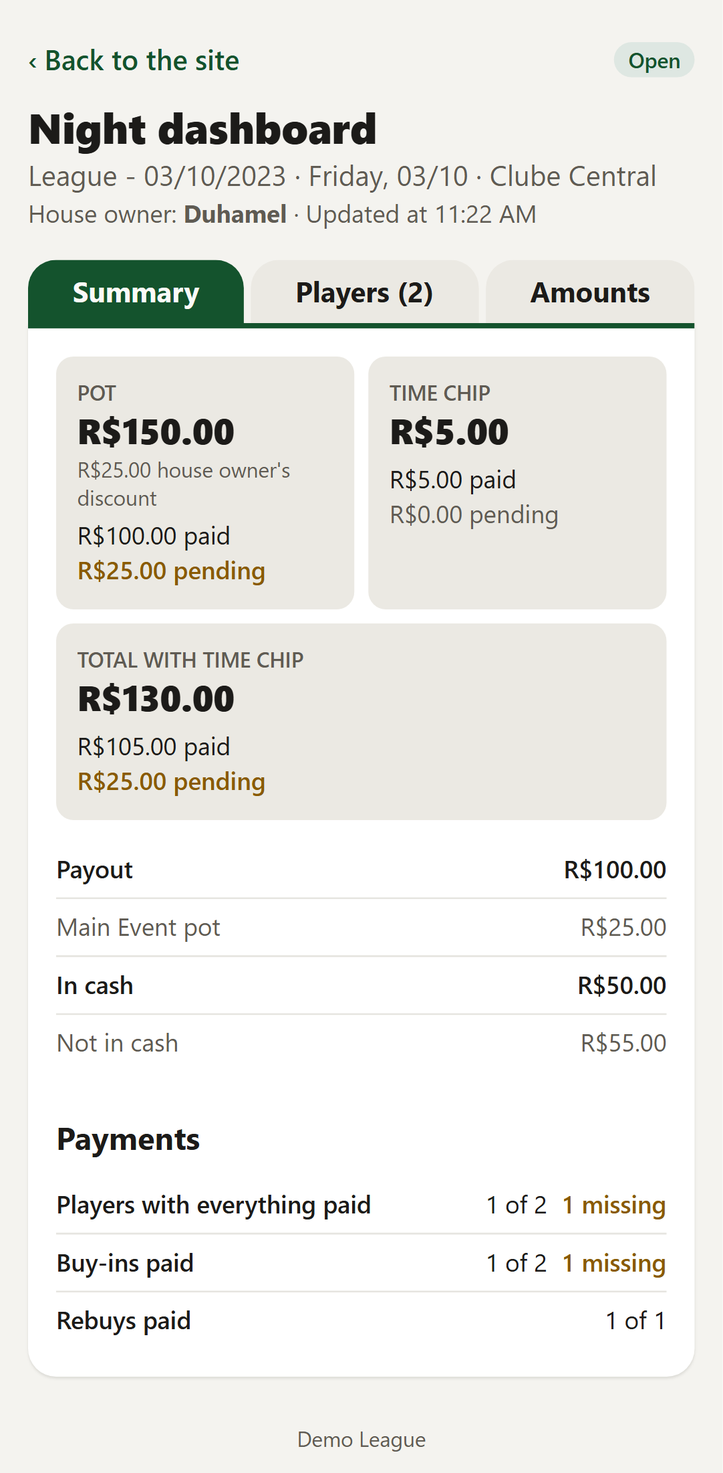
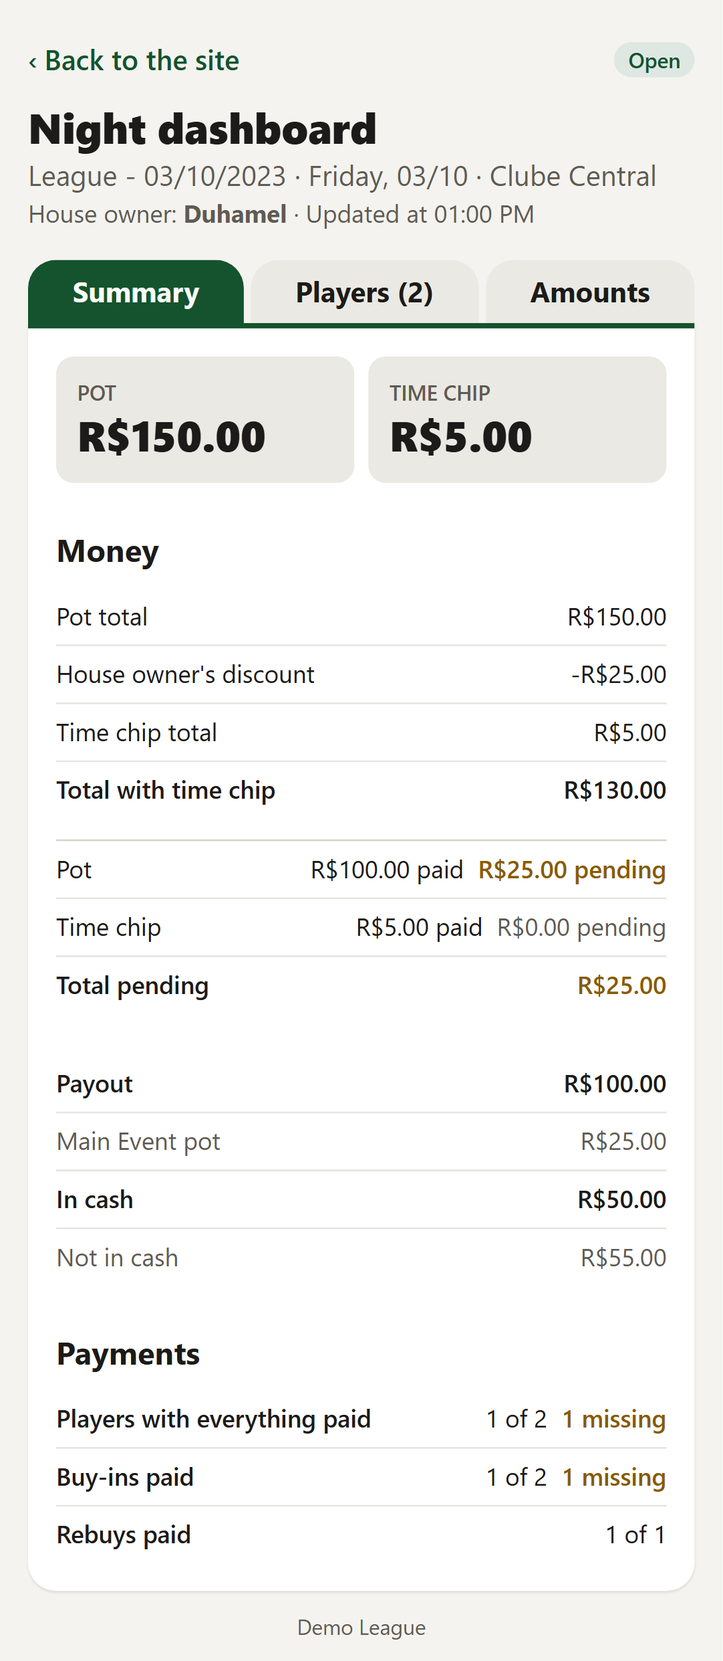
Split the money out of the dashboard summary's tiles
The summary now shows two tiles, the pot and the time chip, one amount
each. A "Dinheiro" section below adds the money up (pot, house owner's
discount, time chip, total), then shows paid and pending of the pot and
the time chip, and the total pending. The payout follows in a section
of its own.

Claude-Session: https://claude.ai/code/session_019eCHvjApLfup8M1aYvA3m7

diff --git a/frontend/tests/night-dashboard.spec.ts b/frontend/tests/night-dashboard.spec.ts
@@ -3,6 +3,8 @@ import { expectAccessible, login, logout, pickSeason } from './helpers'
 
 // On the summary tab, which is read here also while another tab is on show.
 const totals = (page: Page) => page.getByRole('region', { name: 'Valores do evento', includeHidden: true })
+const money = (page: Page) => page.getByRole('region', { name: 'Dinheiro', includeHidden: true })
+const payout = (page: Page) => page.getByRole('region', { name: 'Premiação', includeHidden: true })
 const marksOf = (page: Page, nickname: string) => page.getByRole('group', { name: `Pagamentos de ${nickname}` })
 // The dashboard's tabs: "Resumo", "Jogadores (n)" and "Valores". Only the one on show can be tapped.
 const openTab = (page: Page, name: string | RegExp) => page.getByRole('tab', { name }).click()
@@ -48,25 +50,29 @@ test('players record the payments of an open night on its dashboard, and the kee
   await expect(marksOf(page, 'Jacobson').getByRole('button', { name: 'Buy-in' })).toHaveAttribute('aria-pressed', 'true')
   // The tap confirmed him: his row says when
   await expect(page.getByRole('listitem').filter({ hasText: 'Jacobson' })).toContainText(/Confirmou \d{2}\/\d{2} às \d{2}:\d{2}/)
-  await expect(totals(page)).toContainText('PoteR$ 50,00Pago R$ 50,00')
+  await expect(money(page)).toContainText('PotePago R$ 50,00Falta R$ 0,00')
 
   // A rebuy is owed until it is marked as paid, and adds its time chip, which is shown apart from the pot
   await marksOf(page, 'Jacobson').getByRole('button', { name: '+ Rebuy' }).click()
-  await expect(totals(page)).toContainText('PoteR$ 100,00Pago R$ 50,00Falta R$ 50,00')
-  await expect(totals(page)).toContainText('Time chipR$ 5,00Pago R$ 0,00Falta R$ 5,00')
+  await expect(totals(page)).toContainText('PoteR$ 100,00')
+  await expect(totals(page)).toContainText('Time chipR$ 5,00')
+  await expect(money(page)).toContainText('PotePago R$ 50,00Falta R$ 50,00')
+  await expect(money(page)).toContainText('Time chipPago R$ 0,00Falta R$ 5,00')
   await marksOf(page, 'Jacobson').getByRole('button', { name: 'Rebuy 1' }).click()
-  await expect(totals(page)).toContainText('Total com time chipR$ 105,00Pago R$ 105,00Falta R$ 0,00')
+  await expect(money(page)).toContainText('Total com time chipR$ 105,00')
+  await expect(money(page)).toContainText('Total que faltaR$ 0,00')
   await expect(page.getByRole('region', { name: 'Pagamentos', includeHidden: true })).toContainText('Rebuys pagos1 de 1')
-  await expect(totals(page)).not.toContainText('Em dinheiro')
+  await expect(payout(page)).not.toContainText('Em dinheiro')
   // One tap more says the rebuy was paid, but not in cash, with the time chip it pays: the summary then says how
   // much of what was paid is in hand
   await marksOf(page, 'Jacobson').getByRole('button', { name: 'Rebuy 1' }).click()
   await expect(marksOf(page, 'Jacobson').getByRole('button', { name: 'Rebuy 1 (fora do dinheiro)' })).toHaveAttribute('aria-pressed', 'true')
-  await expect(totals(page)).toContainText('Em dinheiroR$ 50,00')
-  await expect(totals(page)).toContainText('Fora do dinheiroR$ 55,00')
+  await expect(payout(page)).toContainText('Em dinheiroR$ 50,00')
+  await expect(payout(page)).toContainText('Fora do dinheiroR$ 55,00')
   await expect(page.getByRole('listitem').filter({ hasText: 'Jacobson' })).toContainText('Tudo pago (⇄ R$ 55,00)')
   await expect(page.getByText('Pago fora do dinheiro (transferência, Pix)')).toBeVisible()
-  await expect(totals(page)).toContainText('Total com time chipR$ 105,00Pago R$ 105,00Falta R$ 0,00')
+  await expect(money(page)).toContainText('Total com time chipR$ 105,00')
+  await expect(money(page)).toContainText('Total que faltaR$ 0,00')
 
   // The owner of the house pays the smaller buy-in, and the pot for points counts the buy-in in full
   await page.getByRole('searchbox', { name: 'Adicionar jogador' }).fill('duha')
@@ -74,7 +80,9 @@ test('players record the payments of an open night on its dashboard, and the kee
   await page.getByRole('button', { name: 'Mais ações de Duhamel' }).click()
   await page.getByRole('menuitem', { name: 'É o dono da casa' }).click()
   await expect(page.getByText('Dono da casa: Duhamel')).toBeVisible()
-  await expect(totals(page)).toContainText('PoteR$ 150,00Desconto do dono da casa R$ 25,00Pago R$ 100,00Falta R$ 25,00')
+  await expect(totals(page)).toContainText('PoteR$ 150,00')
+  await expect(money(page)).toContainText('Desconto do dono da casa-R$ 25,00')
+  await expect(money(page)).toContainText('PotePago R$ 100,00Falta R$ 25,00')
 
   // Each amount is in a closed field until it is marked "Manual". The Main Event pot is the season's share of the money
   await openTab(page, 'Valores')
@@ -87,7 +95,8 @@ test('players record the payments of an open night on its dashboard, and the kee
   await expect(page.getByRole('checkbox', { name: 'Definir o pote manualmente' })).toBeChecked()
   await page.getByLabel('Pote (R$)').fill('300')
   await page.getByRole('button', { name: 'Salvar' }).click()
-  await expect(totals(page)).toContainText('Pote(Manual)R$ 300,00Calculado R$ 150,00')
+  await expect(totals(page)).toContainText('Pote(Manual)R$ 300,00')
+  await expect(money(page)).toContainText('Pote totalCalculado R$ 150,00R$ 300,00')
   await expect(page.getByLabel('Pote ME (R$)')).toHaveValue('55,00')
   await expectAccessible(page)
   // Unmarking it changes nothing until it is saved: a tap by mistake costs nothing
@@ -96,7 +105,9 @@ test('players record the payments of an open night on its dashboard, and the kee
   await expect(page.getByLabel('Pote (R$)')).toHaveValue('300,00')
   await expect(totals(page)).toContainText('Pote(Manual)R$ 300,00')
   await page.getByRole('button', { name: 'Salvar' }).click()
-  await expect(totals(page)).toContainText('PoteR$ 150,00Desconto do dono da casa R$ 25,00Pago R$ 100,00Falta R$ 25,00')
+  await expect(totals(page)).toContainText('PoteR$ 150,00')
+  await expect(money(page)).toContainText('Desconto do dono da casa-R$ 25,00')
+  await expect(money(page)).toContainText('PotePago R$ 100,00Falta R$ 25,00')
   await expect(page.getByLabel('Pote ME (R$)')).toHaveValue('25,00')
   // An adjustment of what was not in cash, for anything out of the ordinary, takes a negative amount
   // …in a field that shows only once its mark is ticked
@@ -104,8 +115,8 @@ test('players record the payments of an open night on its dashboard, and the kee
   await page.getByText('Ajustar o valor fora do dinheiro', { exact: true }).click()
   await page.getByLabel('Ajuste fora do dinheiro (R$)').fill('-5')
   await page.getByRole('button', { name: 'Salvar' }).click()
-  await expect(totals(page)).toContainText('Em dinheiroR$ 55,00')
-  await expect(totals(page)).toContainText('Fora do dinheiroR$ 50,00')
+  await expect(payout(page)).toContainText('Em dinheiroR$ 55,00')
+  await expect(payout(page)).toContainText('Fora do dinheiroR$ 50,00')
 
   // A position is saved when its player is picked, with the points it earns from the pot so far
   await page.getByRole('button', { name: /^6º lugar/ }).click()
@@ -131,7 +142,7 @@ test('players record the payments of an open night on its dashboard, and the kee
   await openTab(keeper, /^Jogadores/)
   await expect(marksOf(keeper, 'Jacobson').getByRole('button', { name: 'Rebuy 1' })).toHaveAttribute('aria-pressed', 'true')
   await marksOf(keeper, 'Duhamel').getByRole('button', { name: 'Buy-in' }).click()
-  await expect(totals(keeper)).toContainText('PoteR$ 150,00Desconto do dono da casa R$ 25,00Pago R$ 125,00')
+  await expect(money(keeper)).toContainText('PotePago R$ 125,00')
   // …which the player's dashboard shows by itself a few seconds later
   await openTab(page, /^Jogadores/)
   await expect(marksOf(page, 'Duhamel').getByRole('button', { name: 'Buy-in' })).toHaveAttribute('aria-pressed', 'true', { timeout: 20_000 })
@@ -194,7 +205,7 @@ test('an admin undoes the opening of a night opened by mistake, and what its das
   await openTab(page, /^Jogadores/)
   await page.getByRole('searchbox', { name: 'Adicionar jogador' }).fill('jacob')
   await page.getByRole('group', { name: 'Adicionar Jacobson' }).getByRole('button', { name: 'Buy-in pago' }).click()
-  await expect(totals(page)).toContainText('PoteR$ 50,00Pago R$ 50,00')
+  await expect(money(page)).toContainText('PotePago R$ 50,00Falta R$ 0,00')
   // A results keeper cannot undo the opening
   await page.goto(nightUrl)
   await expect(page.getByRole('link', { name: /Finalizar/ })).toBeVisible()

diff --git a/frontend/src/features/dashboard/NightDashboardView.tsx b/frontend/src/features/dashboard/NightDashboardView.tsx
@@ -371,11 +371,15 @@ function AmountsForm({ dashboard, onChange }: { dashboard: NightDashboard; onCha
 /**
  * "Resumo", the first tab: the night at a glance.
  *
- * "Valores do evento" has the pot, the time chip apart from it, and the two added up, each with what was paid and
- * what is pending, of what the players owe. The pot is the pot for points; when the owner of the house pays less,
- * a line says by how much, so that what the players owe adds up. An amount typed by hand stands in for the one
- * worked out, which is still shown below it. Under them come the payout, the Main Event pot and, once a payment
- * was not in cash, how much of what was paid is in cash, to check the money in hand.
+ * "Valores do evento" has two tiles, the pot for points and the time chip, each one amount. An amount typed by
+ * hand stands in for the one worked out, and its tile says so.
+ *
+ * "Dinheiro" adds the money up: the pot, the house owner's discount when the owner of the house pays less, the
+ * time chip and the total. Below them come what was paid and what is pending, of the pot, of the time chip and
+ * of the total. A pot or time chip typed by hand shows the one worked out beside it.
+ *
+ * Then come the payout, the Main Event pot and, once a payment was not in cash, how much of what was paid is in
+ * cash, to check the money in hand.
  *
  * "Pagamentos" counts the players, who owes nothing more, and how many buy-ins, rebuys and time chips were paid.
  * A finished night also shows the amounts it was finished with.
@@ -385,12 +389,21 @@ function DashboardSummary({ dashboard }: { dashboard: NightDashboard }) {
   const inUse = amountsInUse(dashboard)
   const counts = paymentCounts(dashboard)
   const discount = Number(dashboard.house_owner_discount) !== 0 ? dashboard.house_owner_discount : null
-  const tiles: { label: string; amount: string; worked: string; discount?: string | null; amounts: Amounts; isManual: boolean }[] = [
-    { label: t.dashboard.totals.pot, amount: inUse.pot, worked: dashboard.scoring_pot, discount, amounts: totals.pot, isManual: manual.pot !== null },
+  const tiles: { label: string; amount: string; isManual: boolean }[] = [
+    { label: t.dashboard.totals.pot, amount: inUse.pot, isManual: manual.pot !== null },
+    ...(totals.time_chip ? [{ label: t.dashboard.totals.timeChip, amount: inUse.timeChip!, isManual: manual.time_chip !== null }] : []),
+  ]
+  const sums: { label: string; amount: string; worked?: string; strong?: boolean }[] = [
+    { label: t.dashboard.money.pot, amount: inUse.pot, worked: manual.pot !== null ? dashboard.scoring_pot : undefined },
+    ...(discount ? [{ label: t.dashboard.money.houseOwnerDiscount, amount: `-${discount}` }] : []),
     ...(totals.time_chip
-      ? [{ label: t.dashboard.totals.timeChip, amount: inUse.timeChip!, worked: totals.time_chip.owed, amounts: totals.time_chip, isManual: manual.time_chip !== null }]
+      ? [{ label: t.dashboard.money.timeChip, amount: inUse.timeChip!, worked: manual.time_chip !== null ? totals.time_chip.owed : undefined }]
       : []),
-    { label: totals.time_chip ? t.dashboard.totals.totalWithTimeChip : t.dashboard.totals.total, amount: inUse.total, worked: totals.total.owed, amounts: totals.total, isManual: manual.pot !== null || manual.time_chip !== null },
+    { label: totals.time_chip ? t.dashboard.totals.totalWithTimeChip : t.dashboard.totals.total, amount: inUse.total, strong: true },
+  ]
+  const balances: { label: string; amounts: Amounts }[] = [
+    { label: t.dashboard.money.potPayments, amounts: totals.pot },
+    ...(totals.time_chip ? [{ label: t.dashboard.money.timeChipPayments, amounts: totals.time_chip }] : []),
   ]
   const money: [label: string, amount: string, strong?: boolean][] = [
     [t.dashboard.summary.payout, inUse.payout, true],
@@ -411,25 +424,52 @@ function DashboardSummary({ dashboard }: { dashboard: NightDashboard }) {
       <section aria-label={t.dashboard.totals.label}>
         {/* With a large font, a tile that does not fit moves to a new line rather than cut its amounts short. */}
         <dl className="flex flex-wrap gap-2">
-          {tiles.map(({ label, amount, worked, discount, amounts, isManual }) => (
+          {tiles.map(({ label, amount, isManual }) => (
             <div key={label} className="min-w-36 flex-1 rounded-md bg-surface-sunken p-3">
               <dt className="text-xs font-semibold uppercase text-muted">
                 {label}
                 {isManual && <span className="ml-1 lowercase text-primary">({t.dashboard.manual.mark})</span>}
               </dt>
-              <dd>
-                <span className="block font-display text-xl font-extrabold tabular">{formatMoney(amount)}</span>
-                {isManual && <span className="block text-xs text-muted tabular">{t.dashboard.totals.calculated({ amount: formatMoney(worked) })}</span>}
-                {discount && <span className="block text-xs text-muted tabular">{t.dashboard.totals.houseOwnerDiscount({ amount: formatMoney(discount) })}</span>}
-                <span className="mt-1 block text-sm tabular">{t.dashboard.totals.paid({ amount: formatMoney(amounts.paid) })}</span>
-                <span className={`block text-sm tabular ${Number(amounts.pending) > 0 ? 'font-semibold text-warning' : 'text-muted'}`}>
+              <dd className="font-display text-2xl font-extrabold tabular">{formatMoney(amount)}</dd>
+            </div>
+          ))}
+        </dl>
+      </section>
+
+      <section aria-labelledby="dashboard-money">
+        <h2 id="dashboard-money" className="mb-2 font-display text-lg font-bold">{t.dashboard.money.title}</h2>
+        <dl className="divide-y divide-border/60 text-sm">
+          {sums.map(({ label, amount, worked, strong }) => (
+            <div key={label} className="flex items-baseline justify-between gap-2 py-1.5">
+              <dt className={strong ? 'font-semibold' : undefined}>{label}</dt>
+              <dd className={`text-right tabular ${strong ? 'font-semibold' : ''}`}>
+                {worked !== undefined && <span className="mr-2 text-xs text-muted">{t.dashboard.totals.calculated({ amount: formatMoney(worked) })}</span>}
+                {formatMoney(amount)}
+              </dd>
+            </div>
+          ))}
+        </dl>
+        <dl className="mt-3 divide-y divide-border/60 border-t border-border text-sm">
+          {balances.map(({ label, amounts }) => (
+            <div key={label} className="flex flex-wrap items-baseline justify-between gap-x-2 py-1.5">
+              <dt>{label}</dt>
+              <dd className="text-right tabular">
+                {t.dashboard.totals.paid({ amount: formatMoney(amounts.paid) })}
+                <span className={`ml-2 ${Number(amounts.pending) > 0 ? 'font-semibold text-warning' : 'text-muted'}`}>
                   {t.dashboard.totals.pending({ amount: formatMoney(amounts.pending) })}
                 </span>
               </dd>
             </div>
           ))}
+          <div className="flex items-baseline justify-between gap-2 py-1.5">
+            <dt className="font-semibold">{t.dashboard.money.totalPending}</dt>
+            <dd className={`tabular font-semibold ${Number(totals.total.pending) > 0 ? 'text-warning' : ''}`}>{formatMoney(totals.total.pending)}</dd>
+          </div>
         </dl>
-        <dl className="mt-3 divide-y divide-border/60 text-sm">
+      </section>
+
+      <section aria-label={t.dashboard.summary.payout}>
+        <dl className="divide-y divide-border/60 text-sm">
           {money.map(([label, amount, strong]) => (
             <div key={label} className="flex items-baseline justify-between gap-2 py-1.5">
               <dt className={strong ? 'font-semibold' : 'text-muted'}>{label}</dt>

diff --git a/frontend/src/features/dashboard/NightDashboardView.test.tsx b/frontend/src/features/dashboard/NightDashboardView.test.tsx
@@ -52,20 +52,32 @@ describe('NightDashboardView', () => {
     expect(rows.find((row) => row.textContent?.includes(ana.nickname))).not.toHaveTextContent('Confirmou')
   })
 
-  it('shows the pot, the time chip apart from it, and the total', () => {
+  it('shows the pot and the time chip in tiles of their own, one amount each', () => {
     view()
     const totals = within(screen.getByRole('region', { name: 'Valores do evento' }))
 
-    expect(totals.getByText('Pote').closest('div')).toHaveTextContent('PoteR$ 450,00Desconto do dono da casa R$ 25,00Pago R$ 275,00Falta R$ 150,00')
-    expect(totals.getByText('Time chip').closest('div')).toHaveTextContent('Time chipR$ 25,00Pago R$ 20,00Falta R$ 5,00')
-    expect(totals.getByText('Total com time chip').closest('div')).toHaveTextContent('Total com time chipR$ 450,00Pago R$ 295,00Falta R$ 155,00')
+    expect(totals.getByText('Pote').closest('div')).toHaveTextContent(/^PoteR\$ 450,00$/)
+    expect(totals.getByText('Time chip').closest('div')).toHaveTextContent(/^Time chipR\$ 25,00$/)
+  })
+
+  it('adds the money up, then shows what was paid and what is pending', () => {
+    view()
+    const money = within(screen.getByRole('region', { name: 'Dinheiro' }))
+
+    expect(money.getByText('Pote total').closest('div')).toHaveTextContent('Pote totalR$ 450,00')
+    expect(money.getByText('Desconto do dono da casa').closest('div')).toHaveTextContent('Desconto do dono da casa-R$ 25,00')
+    expect(money.getByText('Time chip total').closest('div')).toHaveTextContent('Time chip totalR$ 25,00')
+    expect(money.getByText('Total com time chip').closest('div')).toHaveTextContent('Total com time chipR$ 450,00')
+    expect(money.getByText('Pote').closest('div')).toHaveTextContent('PotePago R$ 275,00Falta R$ 150,00')
+    expect(money.getByText('Time chip').closest('div')).toHaveTextContent('Time chipPago R$ 20,00Falta R$ 5,00')
+    expect(money.getByText('Total que falta').closest('div')).toHaveTextContent('Total que faltaR$ 155,00')
   })
 
   it('shows the payout, the total without the time chip less the Main Event pot, and the Main Event pot', () => {
     view()
-    const totals = within(screen.getByRole('region', { name: 'Valores do evento' }))
-    expect(totals.getByText('Premiação').closest('div')).toHaveTextContent('PremiaçãoR$ 340,00')
-    expect(totals.getByText('Pote ME').closest('div')).toHaveTextContent('Pote MER$ 85,00')
+    const payout = within(screen.getByRole('region', { name: 'Premiação' }))
+    expect(payout.getByText('Premiação').closest('div')).toHaveTextContent('PremiaçãoR$ 340,00')
+    expect(payout.getByText('Pote ME').closest('div')).toHaveTextContent('Pote MER$ 85,00')
   })
 
   it('opens on the summary, with the players and the amounts in tabs of their own', async () => {
@@ -142,15 +154,14 @@ describe('NightDashboardView', () => {
 
   it('says how much of what was paid is in cash, once a payment was not', () => {
     view()
-    const totals = screen.getByRole('region', { name: 'Valores do evento' })
-    expect(totals).not.toHaveTextContent('Em dinheiro')
+    expect(screen.getByRole('region', { name: 'Premiação' })).not.toHaveTextContent('Em dinheiro')
     cleanup()
 
     view(applyChange(applyChange(nightDashboard, { type: 'markRebuy', player: ana, index: 0, id: 1, paid: true, non_cash: true }), { type: 'mark', player: breno, buy_in_non_cash: true }))
-    const split = within(screen.getByRole('region', { name: 'Valores do evento' }))
+    const split = within(screen.getByRole('region', { name: 'Premiação' }))
     expect(split.getByText('Em dinheiro').closest('div')).toHaveTextContent('Em dinheiroR$ 190,00')
     expect(split.getByText('Fora do dinheiro').closest('div')).toHaveTextContent('Fora do dinheiroR$ 105,00')
-    expect(split.getByText('Total com time chip').closest('div')).toHaveTextContent('Total com time chipR$ 450,00Pago R$ 295,00Falta R$ 155,00')
+    expect(within(screen.getByRole('region', { name: 'Dinheiro' })).getByText('Total que falta').closest('div')).toHaveTextContent('Total que faltaR$ 155,00')
   })
 
   it('shows the field of the adjustment of what was not in cash only while it is marked, and takes a negative amount', async () => {
@@ -175,7 +186,7 @@ describe('NightDashboardView', () => {
     // A saved one is in use and in its field. Unmarking only closes the field, until "Salvar".
     const again = view(applyChange(nightDashboard, { type: 'nonCashAdjustment', amount: '-5.00' }))
     expect(field()).toHaveValue('-5,00')
-    expect(within(screen.getByRole('region', { name: 'Valores do evento' })).getByText('Fora do dinheiro').closest('div')).toHaveTextContent('-R$ 5,00')
+    expect(within(screen.getByRole('region', { name: 'Premiação' })).getByText('Fora do dinheiro').closest('div')).toHaveTextContent('-R$ 5,00')
     await userEvent.click(screen.getByRole('checkbox', { name: 'Ajustar o valor fora do dinheiro' }))
     expect(field()).toBeDisabled()
     expect(field()).toHaveValue('-5,00')
@@ -225,10 +236,11 @@ describe('NightDashboardView', () => {
     view({ ...nightDashboard, totals: { ...nightDashboard.totals, time_chip: null } })
 
     expect(screen.queryByRole('button', { name: 'Time chip' })).not.toBeInTheDocument()
-    const totals = within(screen.getByRole('region', { name: 'Valores do evento' }))
-    expect(totals.queryByText('Time chip')).not.toBeInTheDocument()
+    expect(within(screen.getByRole('region', { name: 'Valores do evento' })).queryByText('Time chip')).not.toBeInTheDocument()
+    const money = within(screen.getByRole('region', { name: 'Dinheiro' }))
+    expect(money.queryByText('Time chip total')).not.toBeInTheDocument()
     // The total is only the pot, so its name says nothing of the time chip.
-    expect(totals.getByText('Total')).toBeInTheDocument()
+    expect(money.getByText('Total')).toBeInTheDocument()
   })
 
   it('changes the house owner and removes a rebuy from the menu of a player', async () => {
@@ -385,9 +397,12 @@ describe('NightDashboardView', () => {
     const onChange = view({ ...nightDashboard, manual: { pot: '600.00', time_chip: null }, main_event_pot: '90.00' })
     const totals = within(screen.getByRole('region', { name: 'Valores do evento' }))
 
-    expect(totals.getByText('Pote').closest('div')).toHaveTextContent('Pote(Manual)R$ 600,00Calculado R$ 450,00Desconto do dono da casa R$ 25,00Pago R$ 275,00Falta R$ 150,00')
-    expect(totals.getByText('Time chip').closest('div')).toHaveTextContent('Time chipR$ 25,00Pago R$ 20,00Falta R$ 5,00')
-    expect(totals.getByText('Total com time chip').closest('div')).toHaveTextContent('Total com time chip(Manual)R$ 600,00Calculado R$ 450,00')
+    expect(totals.getByText('Pote').closest('div')).toHaveTextContent(/^Pote\(Manual\)R\$ 600,00$/)
+    expect(totals.getByText('Time chip').closest('div')).toHaveTextContent(/^Time chipR\$ 25,00$/)
+    const money = within(screen.getByRole('region', { name: 'Dinheiro' }))
+    expect(money.getByText('Pote total').closest('div')).toHaveTextContent('Pote totalCalculado R$ 450,00R$ 600,00')
+    expect(money.getByText('Total com time chip').closest('div')).toHaveTextContent('Total com time chipR$ 600,00')
+    expect(money.getByText('Pote').closest('div')).toHaveTextContent('PotePago R$ 275,00Falta R$ 150,00')
 
     expect(screen.getByRole('checkbox', { name: 'Definir o pote manualmente' })).toBeChecked()
     expect(screen.getByRole('textbox', { name: 'Pote (R$)' })).toHaveValue('600,00')

diff --git a/frontend/src/i18n/pt-BR/dashboard.ts b/frontend/src/i18n/pt-BR/dashboard.ts
@@ -124,6 +124,18 @@ export const dashboard = {
     /** The pot for points counts the house owner's buy-in in full; the money owed is less by this much. */
     houseOwnerDiscount: ({ amount }: { amount: string }) => `Desconto do dono da casa ${amount}`,
   },
+  // The summary's money added up, under the tiles
+  money: {
+    title: 'Dinheiro',
+    pot: 'Pote total',
+    /** Taken from the pot: the house owner pays a smaller buy-in. */
+    houseOwnerDiscount: 'Desconto do dono da casa',
+    timeChip: 'Time chip total',
+    /** What was paid and what is pending of the pot. */
+    potPayments: 'Pote',
+    timeChipPayments: 'Time chip',
+    totalPending: 'Total que falta',
+  },
   recorded: {
     title: 'Resultado registrado',
     help: 'Os valores com que o evento foi finalizado. Eles contam para os pontos; os do painel, não.',

diff --git a/frontend/src/i18n/en/dashboard.ts b/frontend/src/i18n/en/dashboard.ts
@@ -112,6 +112,16 @@ export const dashboard = {
     pending: ({ amount }: { amount: string }) => `${amount} pending`,
     houseOwnerDiscount: ({ amount }: { amount: string }) => `${amount} house owner's discount`,
   },
+  // The summary's money added up, under the tiles
+  money: {
+    title: 'Money',
+    pot: 'Pot total',
+    houseOwnerDiscount: "House owner's discount",
+    timeChip: 'Time chip total',
+    potPayments: 'Pot',
+    timeChipPayments: 'Time chip',
+    totalPending: 'Total pending',
+  },
   recorded: {
     title: 'Recorded result',
     help: 'The amounts the night was finished with. They count for the points; the dashboard\'s do not.',

diff --git a/docs/specs/night-dashboard.md b/docs/specs/night-dashboard.md
@@ -82,16 +82,19 @@ A site has the dashboard only if it turns it on (`nightDashboard` in `features`,
     costs the same and goes to the pot like any other; what it changes is that its player scores no points on
     that night (rule 5b of [seasons-and-nights.md](seasons-and-nights.md)). The site does not enforce that: the
     keeper leaves that player out of the positions.
-11. **The amounts**, each shown as owed, paid and pending:
+11. **The amounts.** The summary shows the pot and the time chip in two tiles, one amount each. Below them,
+    **"Dinheiro"** (money) adds the money up: "Pote total", "Desconto do dono da casa" when there is one,
+    "Time chip total" and the total. Then it shows what was paid and what is pending of the pot and of the time
+    chip, and **"Total que falta"** (total pending):
     - **"Pote"**: the pot for points: the buy-ins, the house owner's counted in full (rule 9a), and every rebuy,
-      also the ones past the limit. Its owed, paid and pending are money, so the owed is the pot less the house
-      owner's discount. A line under the pot shows the discount when there is one;
+      also the ones past the limit. Its paid and pending are money, so what is owed is the pot less the house
+      owner's discount;
     - **"Time chip"**, on a site with the time chip: one time chip value for each late player and, when the
       season says a rebuy also pays the time chip, one for each rebuy. A rebuy's time chip is paid with the rebuy;
     - **"Total com time chip"** (total with the time chip): the money of the two added up: the pot less the
       house owner's discount, and the time chip. On a site without the time chip it is called **"Total"**.
     The time chip is never mixed into the pot.
-11b. **"Premiação"** (payout), under the amounts: the money paid out to the players. It is the total
+11b. **"Premiação"** (payout), under "Dinheiro": the money paid out to the players. It is the total
     without the time chip, less the Main Event pot: the pot in use less the house owner's discount, less the Main
     Event pot in use (rule 14). On a finished night, the Main Event pot is the one the night was finished with.
     A season with no Main Event pot pays out all of that money. It changes neither the night's result nor its
@@ -119,8 +122,8 @@ A site has the dashboard only if it turns it on (`nightDashboard` in `features`,
     saves an amount meanwhile, the fields that were not touched show it, and the ones that were marked, unmarked
     or typed in stay as they were left.
 13b. An amount set by hand is used in the summary, for the points shown beside the positions, for the
-    Main Event pot's share and at "Finalizar". A pot set by hand stands in for the pot for points. The amount worked out stays in sight beside it ("Calculado"),
-    with what was paid and what is pending.
+    Main Event pot's share and at "Finalizar". A pot set by hand stands in for the pot for points. The amount worked out stays in sight beside it in
+    "Dinheiro" ("Calculado"). What was paid and what is pending still come from the players.
 13c. **"Valores" also has "Ajuste fora do dinheiro"**, for anything out of the ordinary: an amount that is added
     to what was paid not in cash. Its mark, "Ajustar o valor fora do dinheiro", comes first, and its field shows
     only while the mark is ticked. The amount may be negative, which takes it from what was not in cash; a line
@@ -196,7 +199,7 @@ house owner's buy-in:
   R$ 90,00: the dashboard and "Finalizar" use R$ 90,00. She unmarks it and saves: R$ 85,00 again.
 - **Set by hand.** On another night nobody marks the rebuys. The pot's field is closed and shows R$ 450,00. Ana
   marks its "Manual", types R$ 600,00 over it and taps "Salvar", leaving the time chip unmarked. The summary shows
-  the pot R$ 600,00 with "Calculado R$ 450,00" below it, the time chip R$ 25,00 and the total R$ 600,00, without the discount. The
+  the pot R$ 600,00 with "Calculado R$ 450,00" beside it, the time chip R$ 25,00 and the total R$ 600,00, without the discount. The
   Main Event pot is R$ 115,00, the 20% of the typed pot less the discount. "Finalizar" starts with R$ 600,00.
 - **No new player here.** Ana searches for "Estreante", who never played: nobody is found. A results keeper adds
   the player in the site, and the search then finds them.
